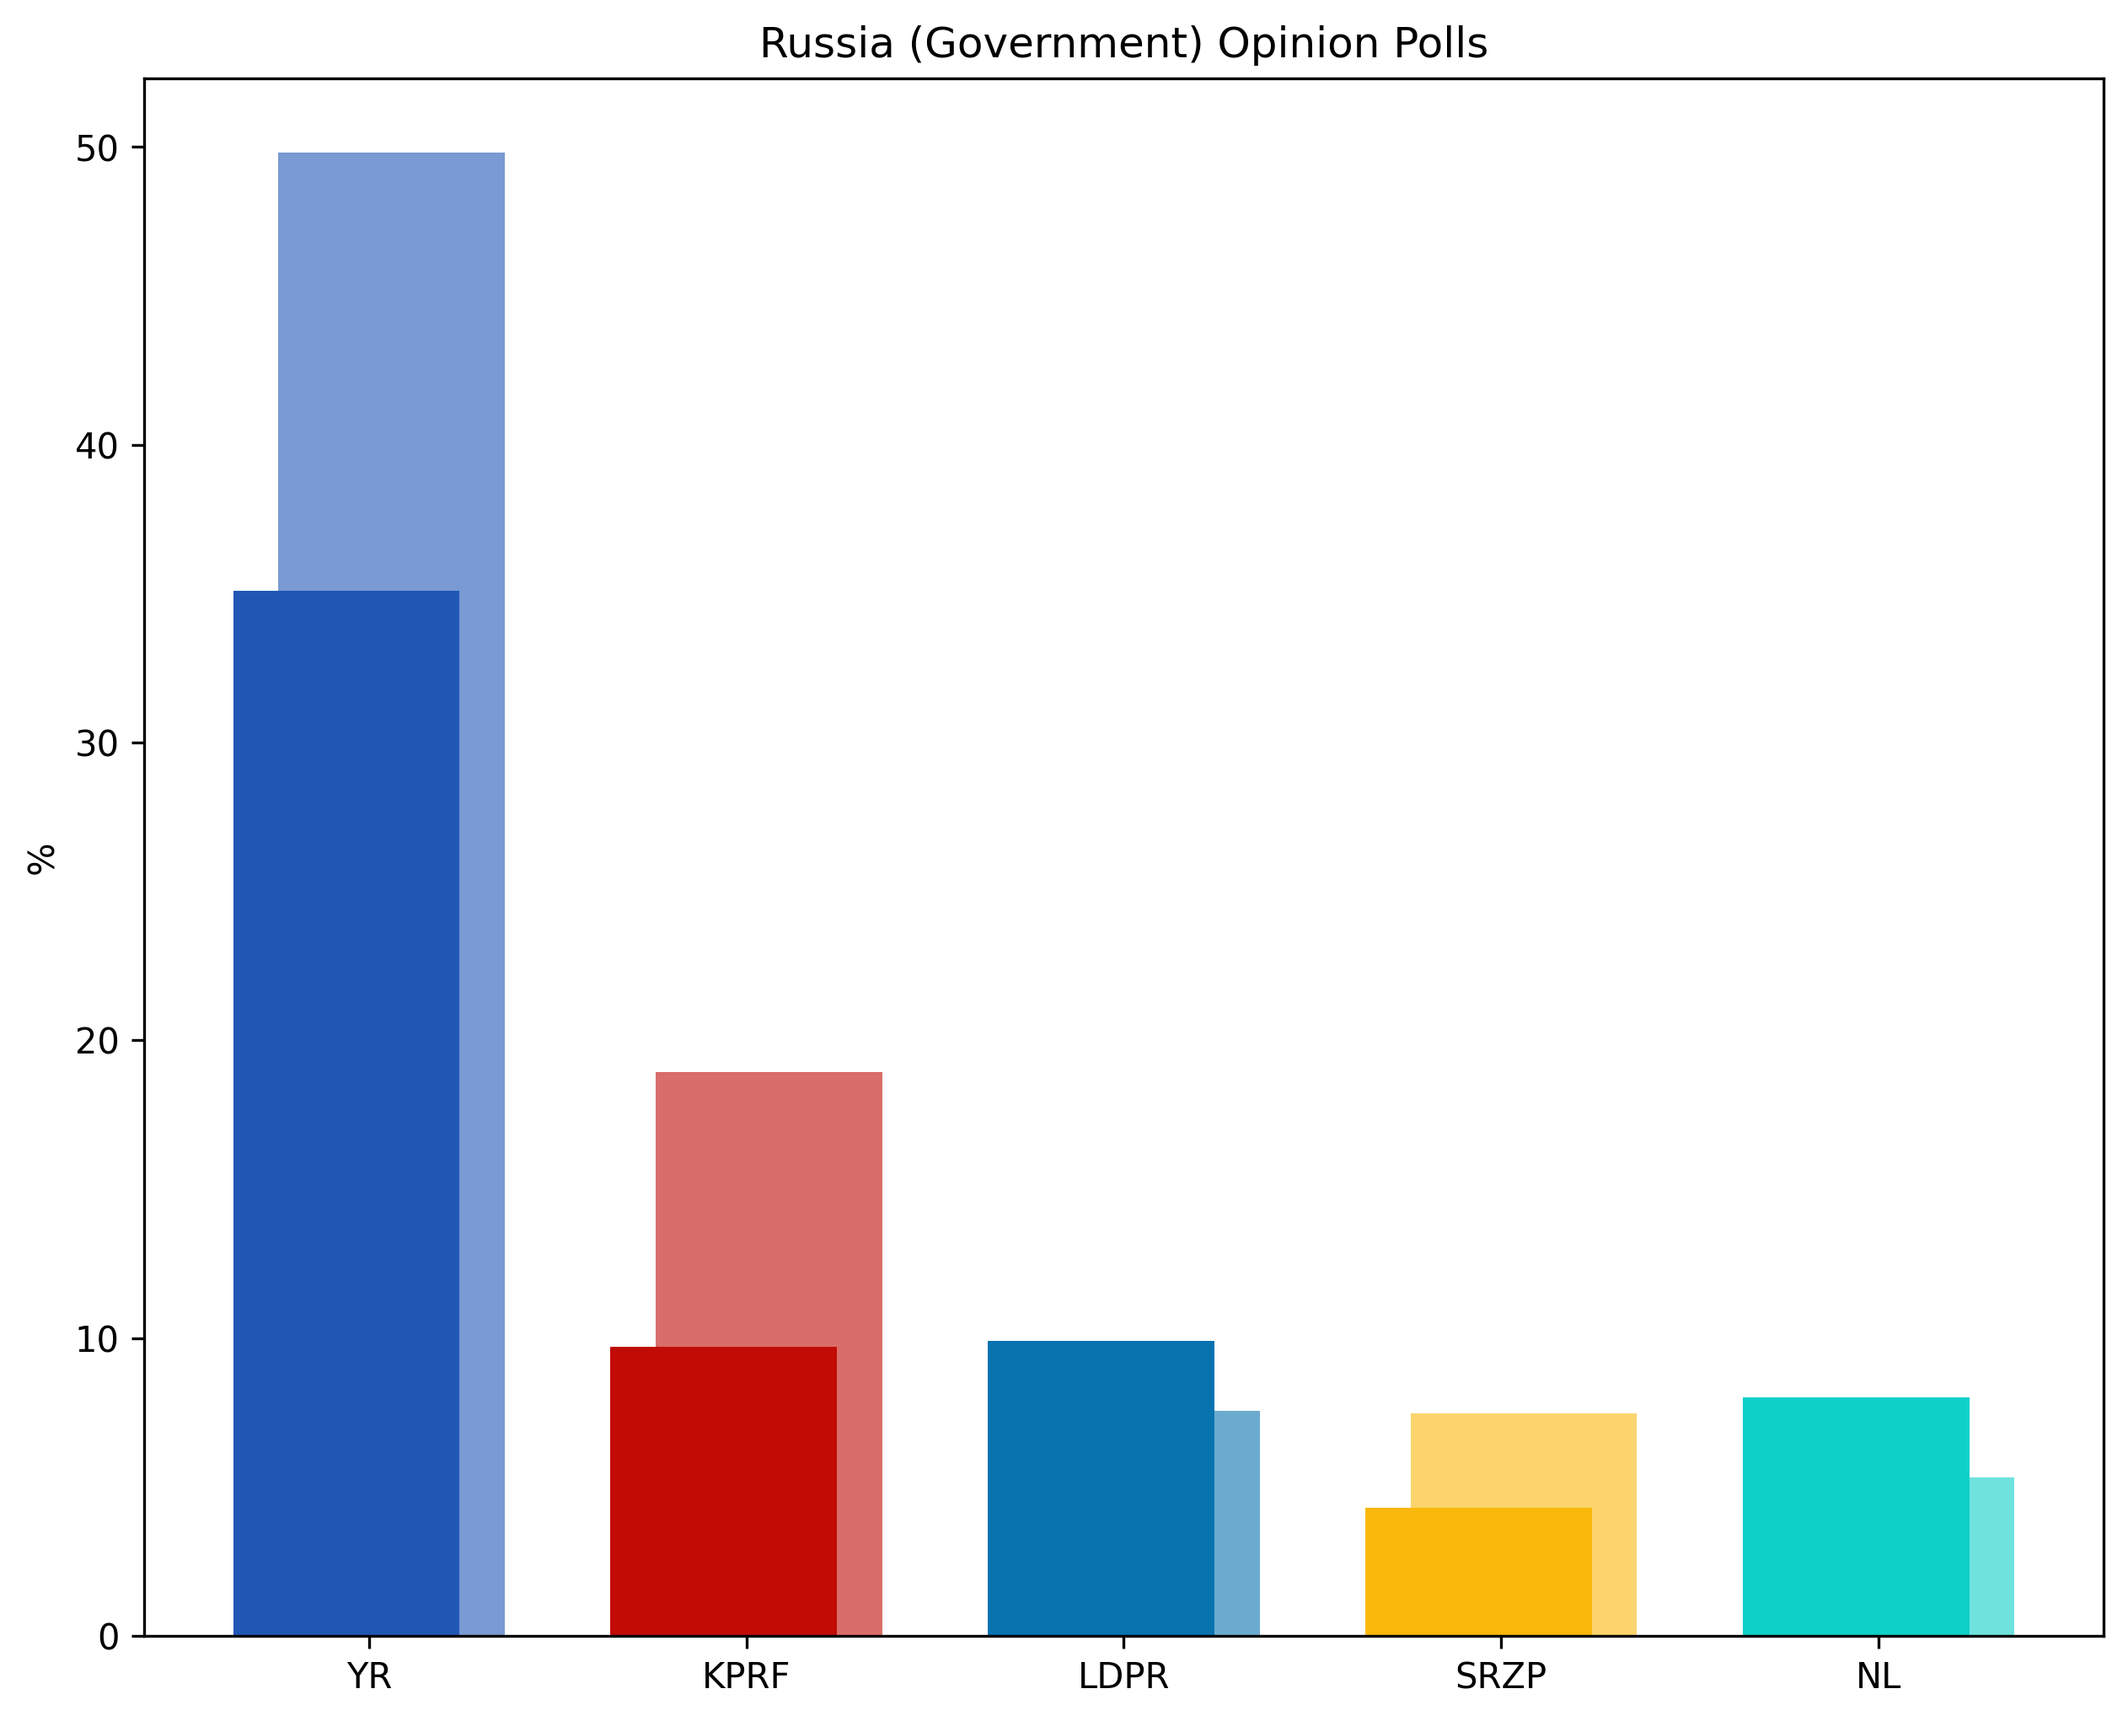
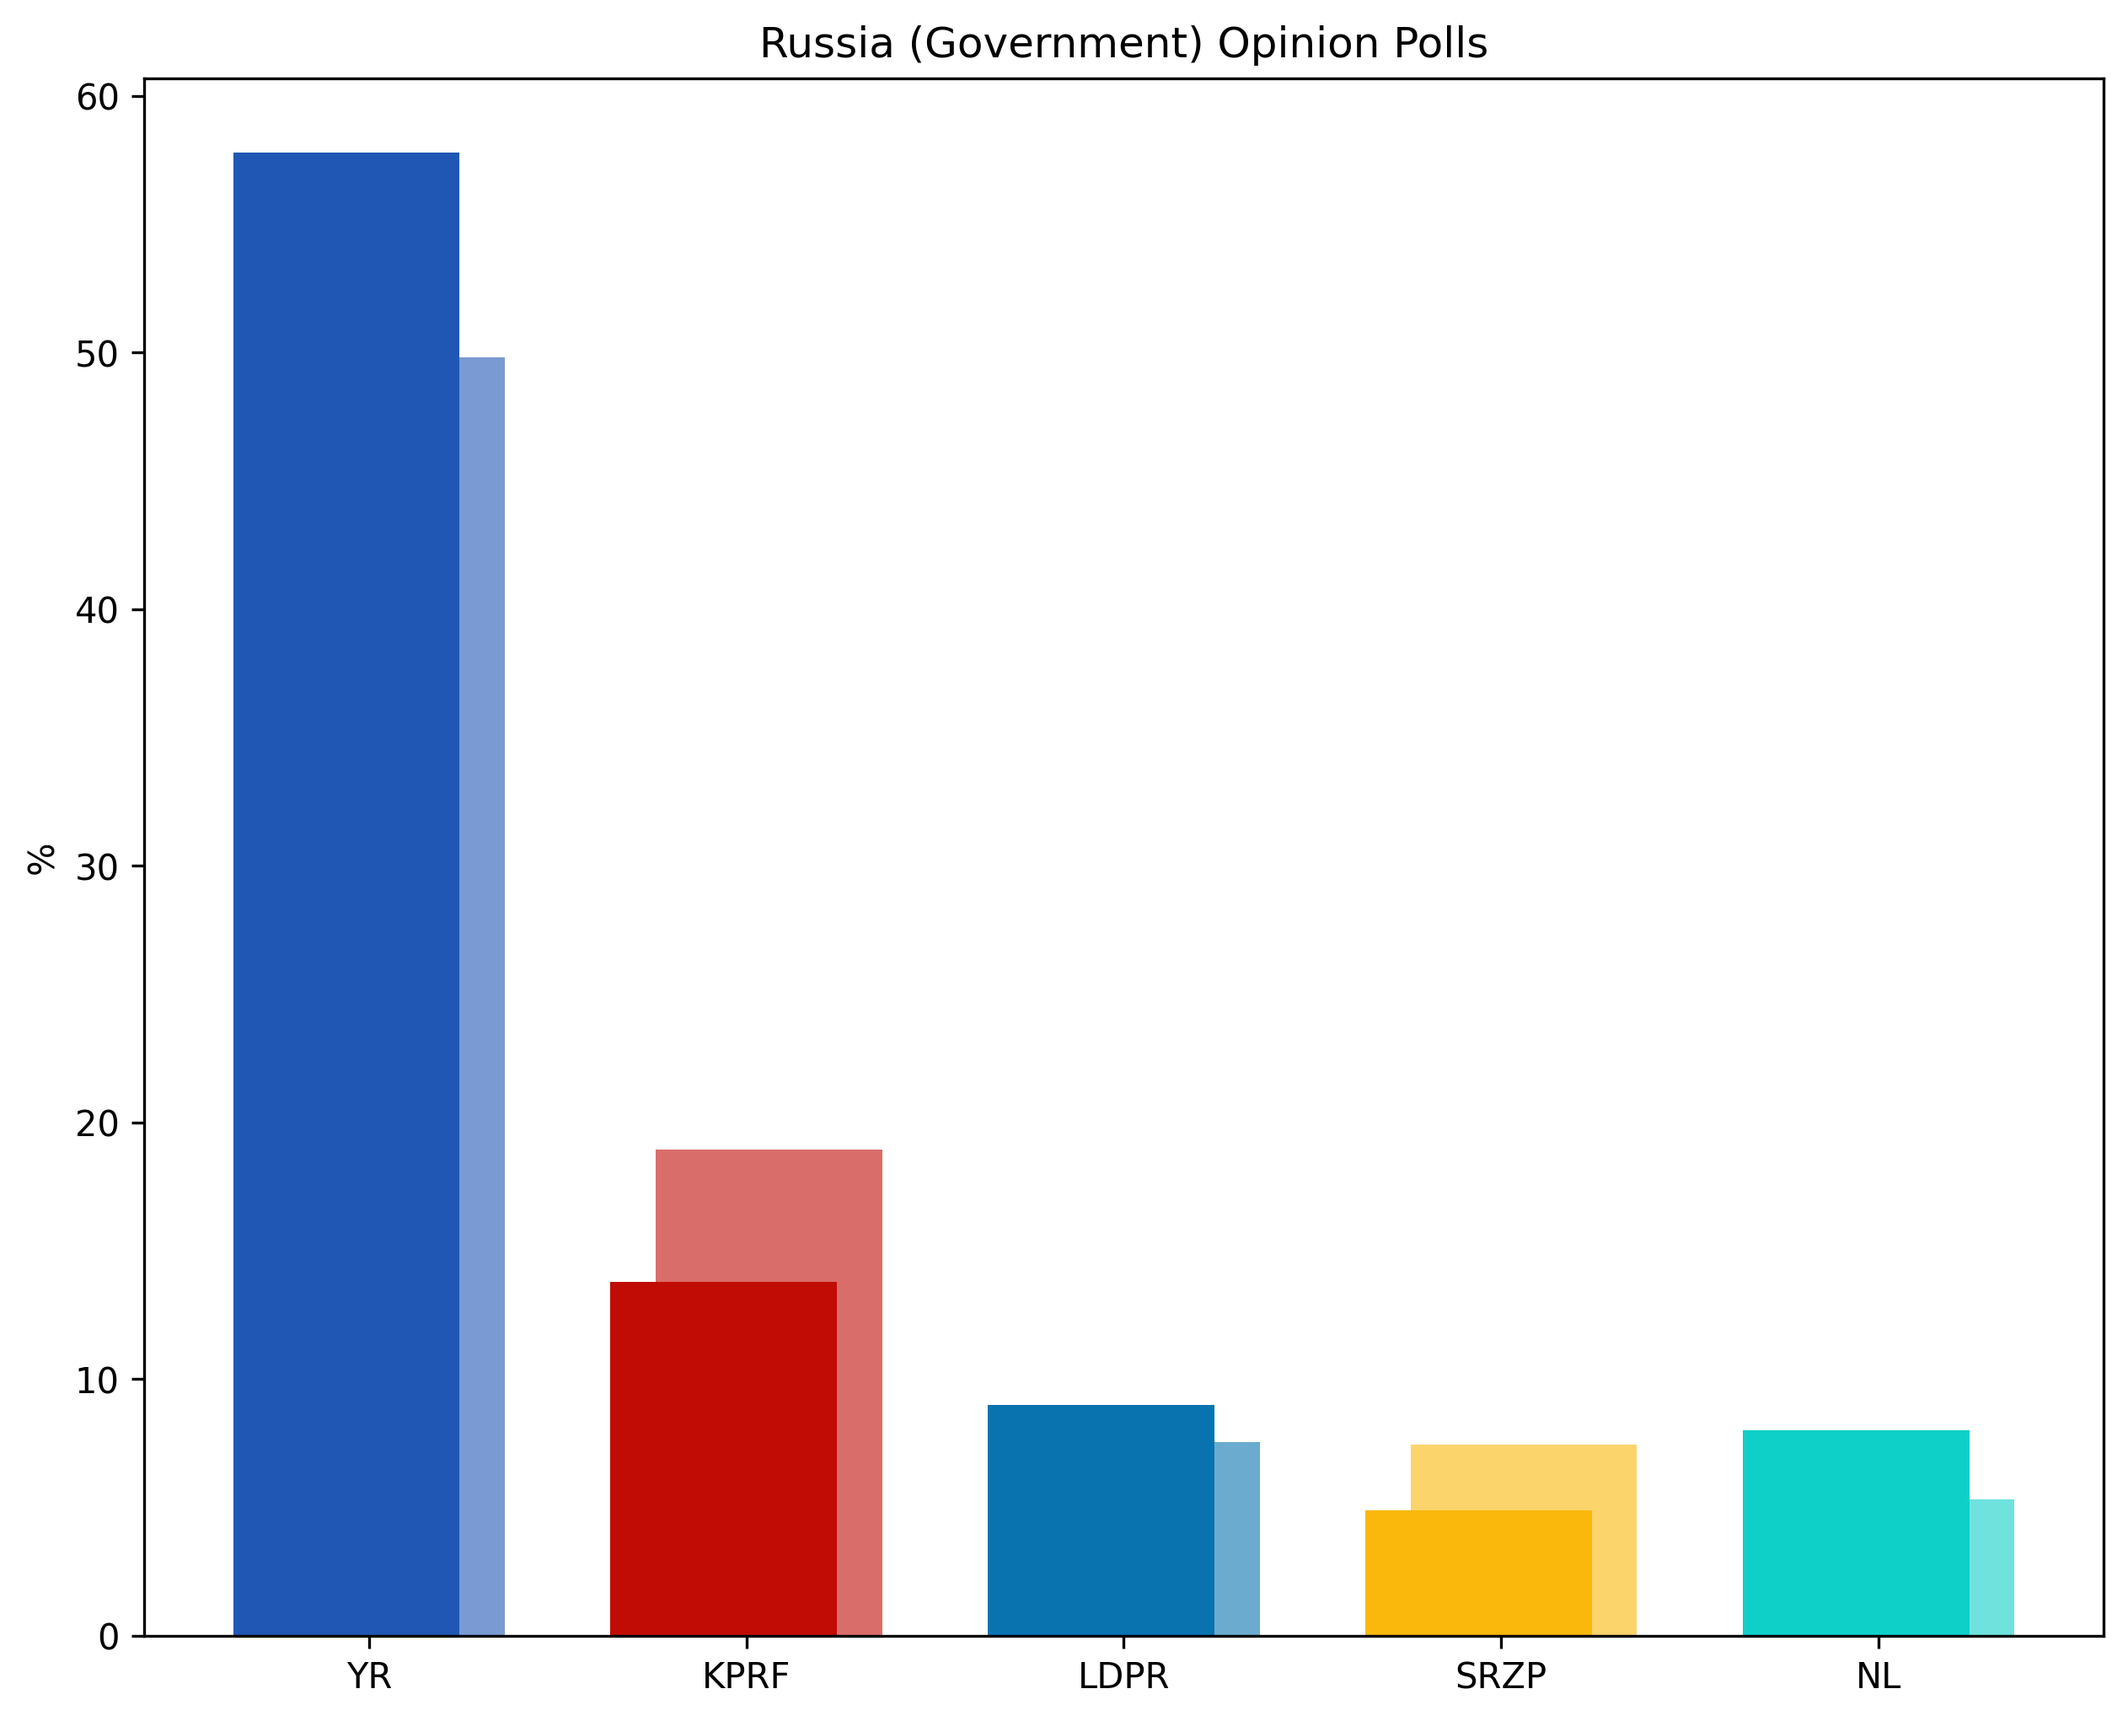
Updated Russia

diff --git a/Eurasia/EasternEurope/Russia.py b/Eurasia/EasternEurope/Russia.py
@@ -2,7 +2,7 @@ import matplotlib.pyplot as plt
 import numpy as np
 
 parties = ['YR', 'KPRF', 'LDPR', 'SRZP', 'NL']
-polling_2026 = [35.1, 9.7, 9.9, 4.3, 8.0]
+polling_2026 = [57.8, 13.8, 9.0, 4.9, 8.0]
 election_2021 = [49.82, 18.93, 7.55, 7.46, 5.32]
 
 poll_colors = ['#2057b4', '#c00c05', '#0973b0', '#f9b80b', '#0fd0c9']
